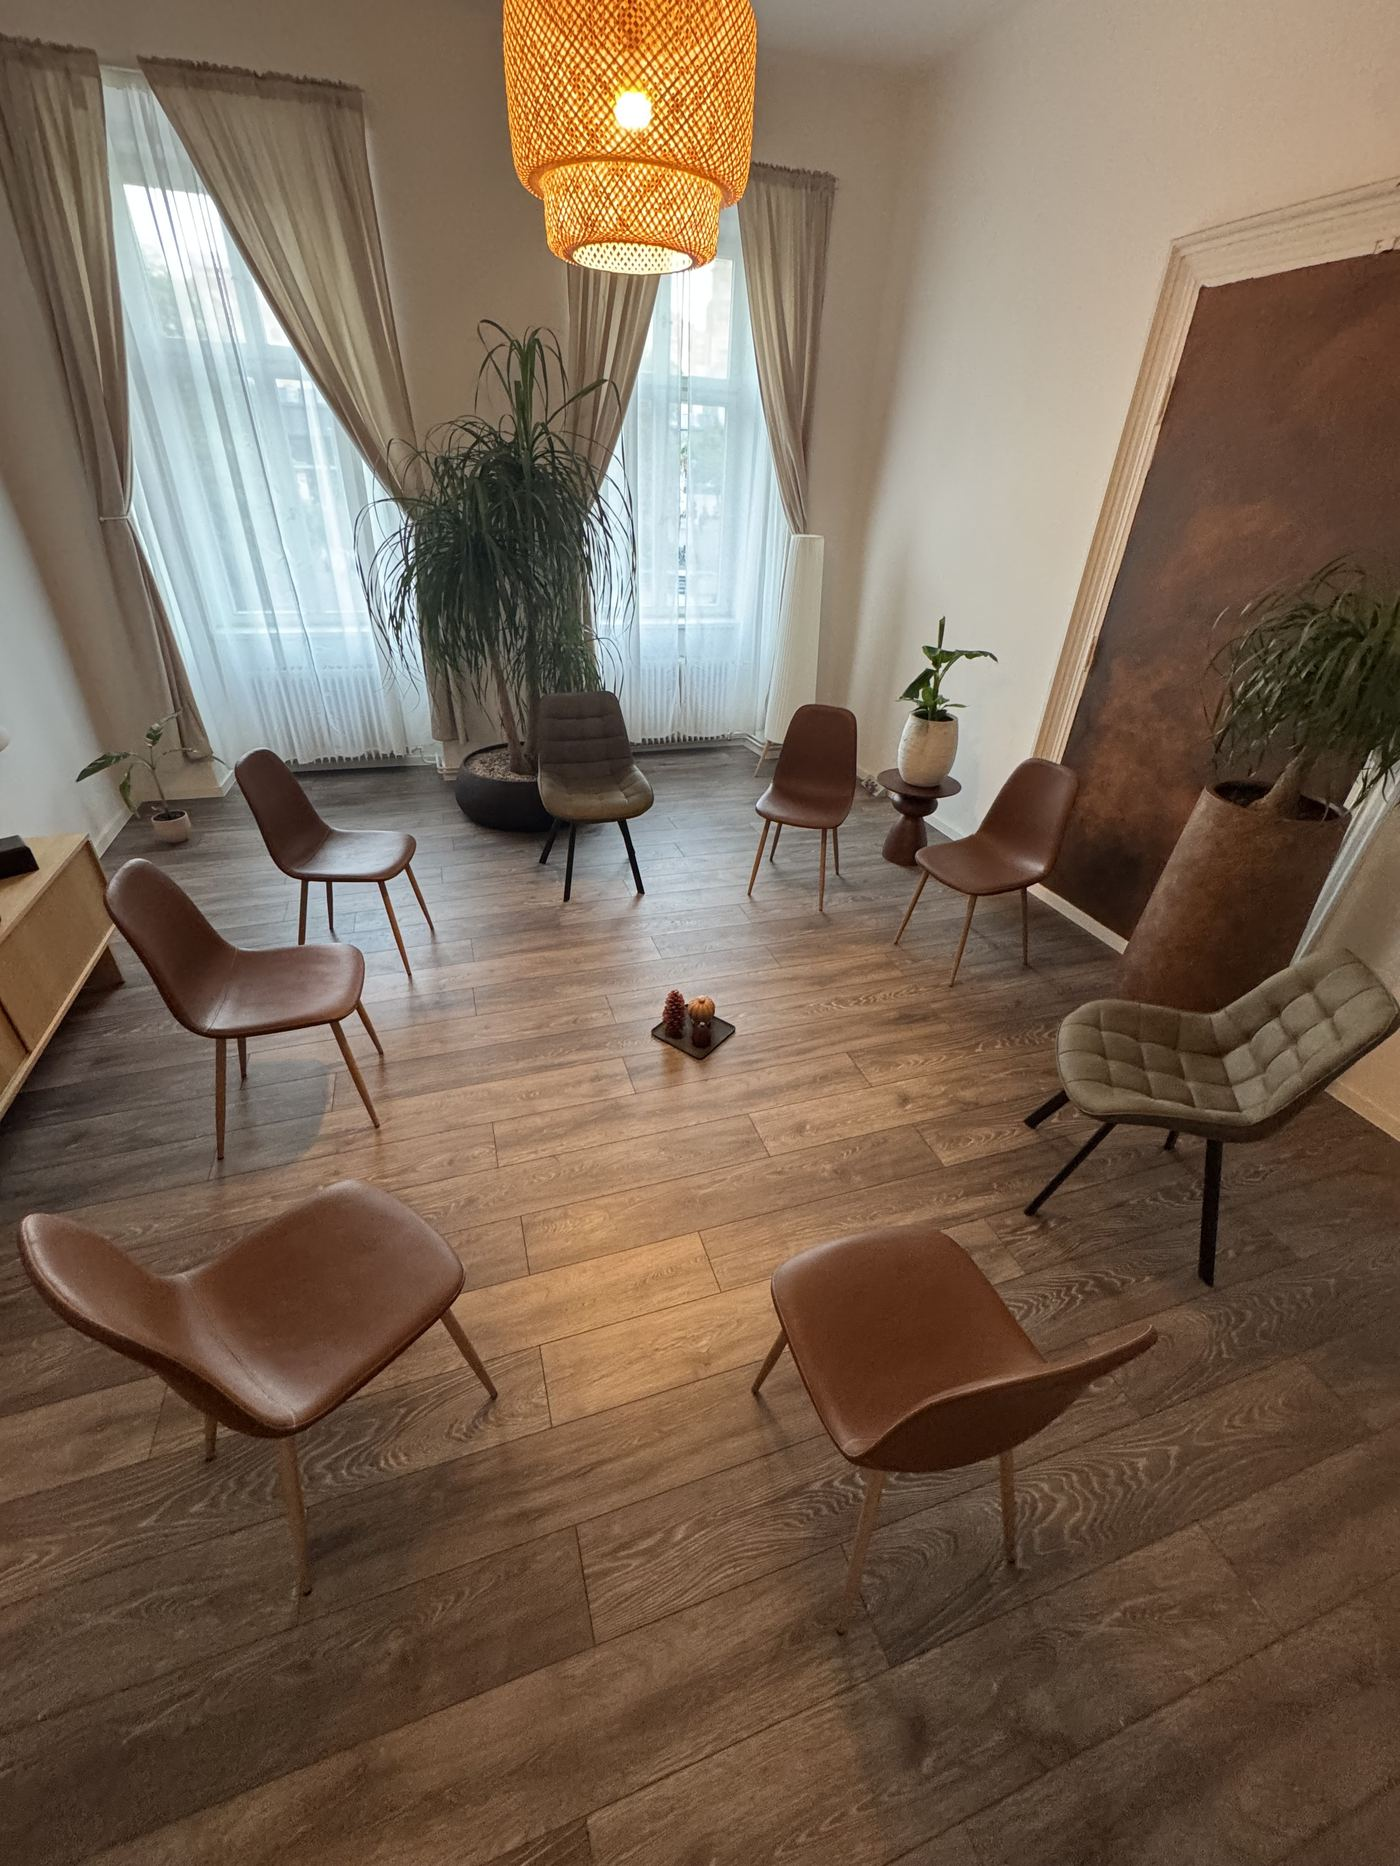
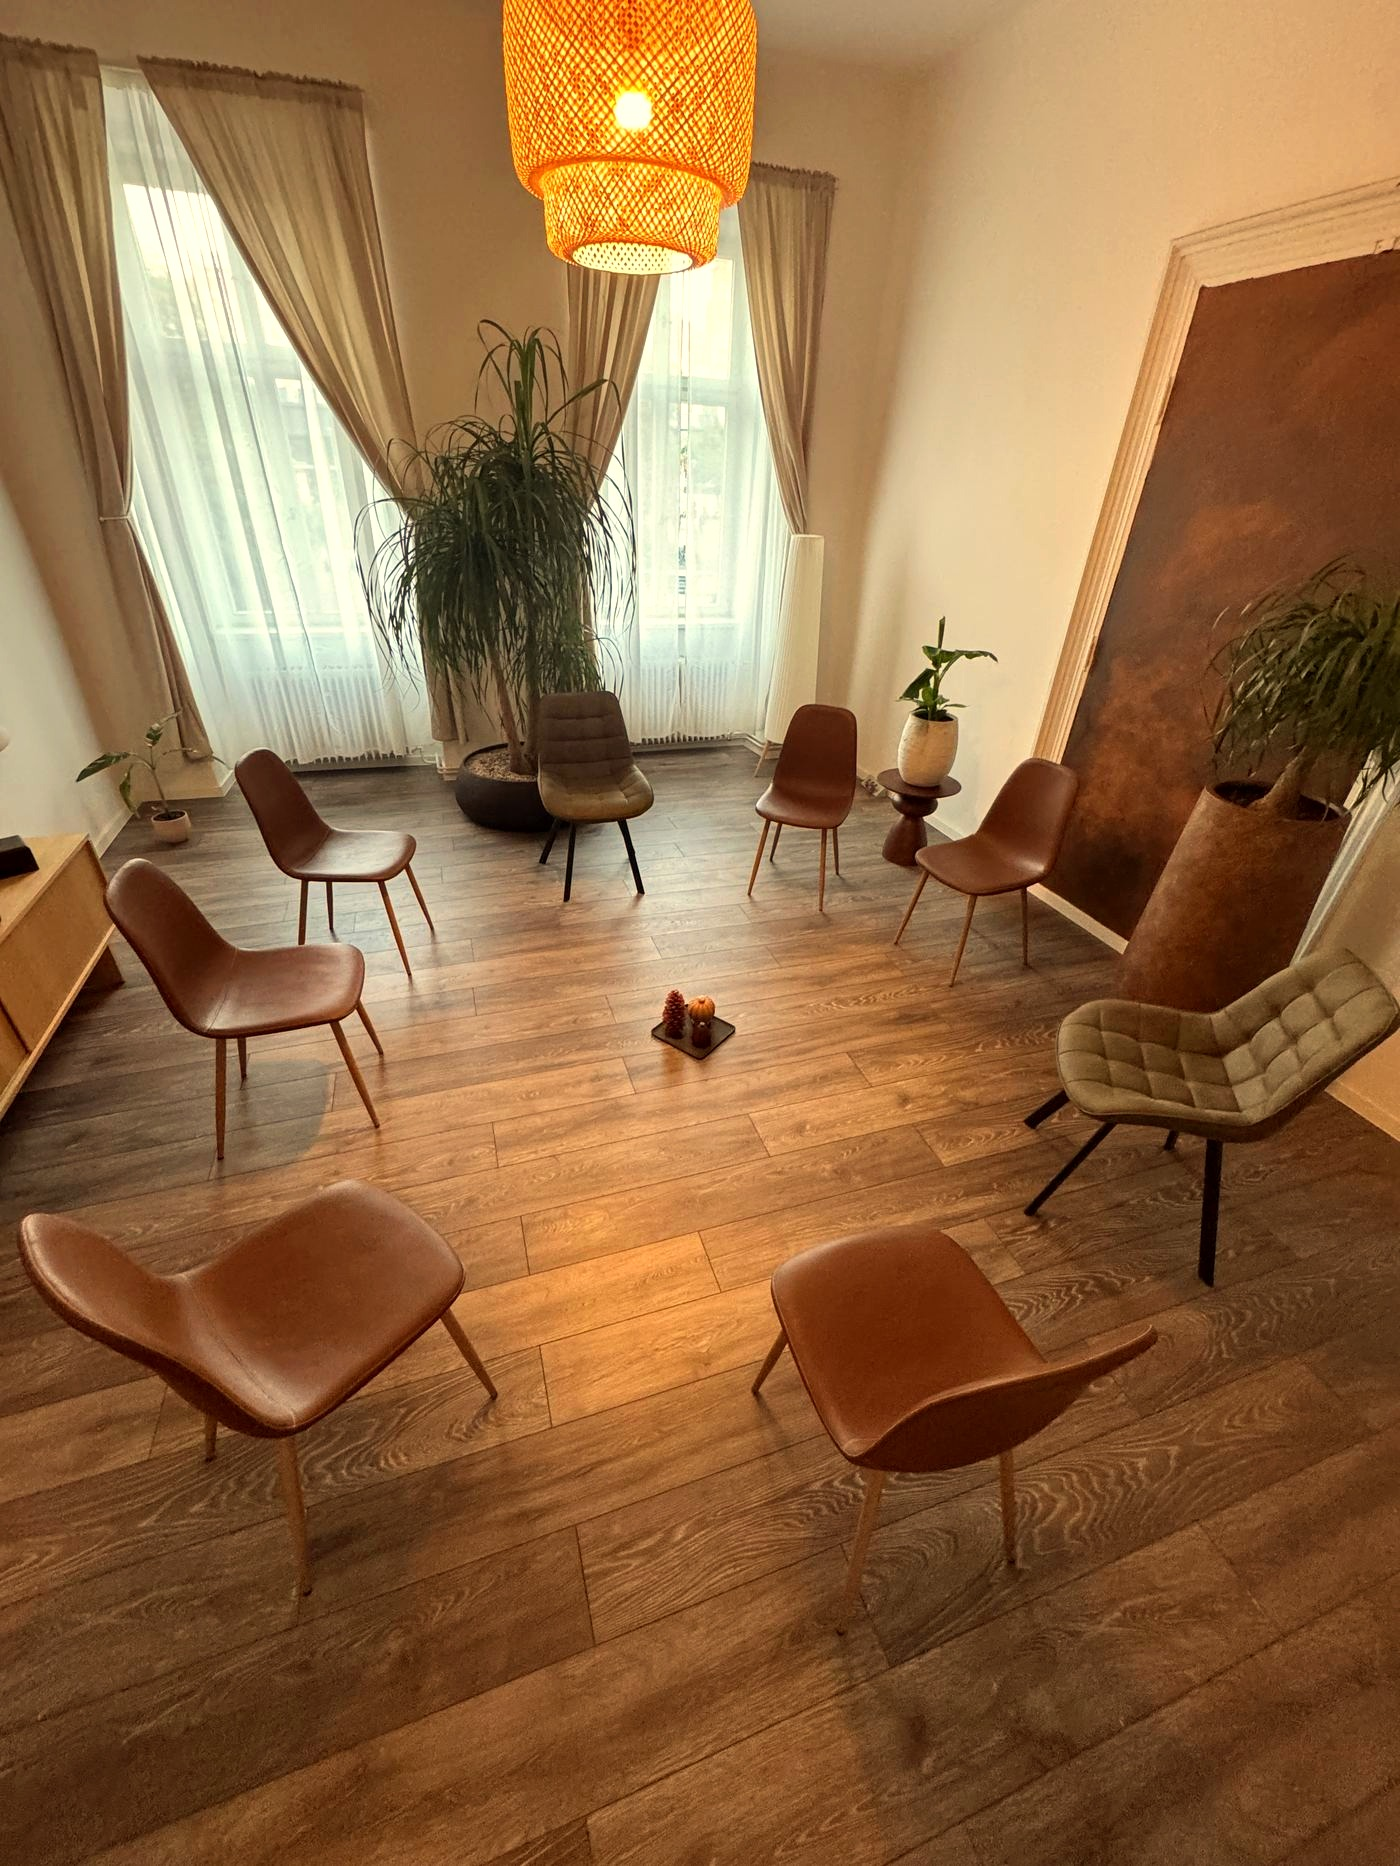
Оновлення сторінки «Ризикни бути живою»: фото-акценти в блоках, нові іконки замість емодзі, тепліше фото кімнати

diff --git a/ryzykny-buty-zhyvoyu.html b/ryzykny-buty-zhyvoyu.html
@@ -68,8 +68,8 @@
     <link rel="preconnect" href="https://fonts.gstatic.com" crossorigin />
     <link href="https://fonts.googleapis.com/css2?family=Manrope:wght@400;500;600;700;800&family=Playfair+Display:ital,wght@0,500;0,600;1,500;1,600&display=swap" rel="stylesheet" />
     <link rel="stylesheet" href="./styles.css?v=12" />
-    <link rel="stylesheet" href="./ryzykny.css?v=8" />
-    <link rel="preload" as="image" href="./public/kvitka/ryzykny-hero.jpg?v=3" fetchpriority="high" />
+    <link rel="stylesheet" href="./ryzykny.css?v=26" />
+    <link rel="preload" as="image" href="./public/kvitka/ryzykny-hero.jpg?v=4" fetchpriority="high" />
   </head>
   <body>
     <main class="app">
@@ -82,7 +82,7 @@
       </header>
 
       <article class="hero">
-        <img src="./public/kvitka/ryzykny-hero.jpg?v=3" alt="Наталія Квітка" fetchpriority="high" decoding="async" />
+        <img src="./public/kvitka/ryzykny-hero.jpg?v=4" alt="Наталія Квітка" fetchpriority="high" decoding="async" />
         <div class="hero-top">
           <strong>Терапевтична група · 17 зустрічей</strong>
           <span>ONLINE від 16.10 · OFFLINE Прага від 23.10</span>
@@ -102,6 +102,9 @@
           <span>✣ Впізнати себе</span>
           <h2>Це група про те, щоб ризикнути обрати себе.</h2>
         </div>
+        <figure class="ryz-mood-photo">
+          <img src="./public/kvitka/photo-doorway.jpg?v=1" alt="Жінка дивиться на світанок у відкриті двері" loading="lazy" decoding="async" />
+        </figure>
         <p class="change-intro">Не бути зручною. Не мовчати. Не підлаштовуватися.</p>
         <p class="change-intro">А бути живою — справжньою, чутливою і різною.</p>
       </article>
@@ -118,6 +121,9 @@
 
       <article class="panel">
         <div class="heading reveal"><span>✣ Чому саме група</span><h2>Чому групова терапія, а не тільки індивідуальна</h2></div>
+        <figure class="ryz-mood-photo">
+          <img src="./public/kvitka/photo-hands.jpg?v=1" alt="Жіночі руки разом на столі" loading="lazy" decoding="async" />
+        </figure>
         <div class="detail about-text-card">
           <p>Іноді ми можемо багато зрозуміти про себе наодинці. Але саме в контакті з іншими людьми стають помітними наші звичні способи: як ми наближаємося, як віддаляємося, як мовчимо, як підлаштовуємося, як захищаємося, як просимо, як боїмося бути побаченими.</p>
           <p>Група стає живим простором, де це можна помітити — і спробувати по-іншому.</p>
@@ -129,7 +135,7 @@
         <div class="stat-grid" id="ryz-stats"></div>
         <div class="change-list" id="ryz-format"></div>
         <figure class="ryz-room-photo">
-          <img src="./public/kvitka/ryzykny-room.jpg?v=1" alt="Простір, де проходить офлайн-зустріч групи" loading="lazy" decoding="async" />
+          <img src="./public/kvitka/ryzykny-room.jpg?v=2" alt="Простір, де проходить офлайн-зустріч групи" loading="lazy" decoding="async" />
           <figcaption>Так виглядає коло, в якому проходить офлайн&#8209;зустріч&nbsp;у&nbsp;Празі</figcaption>
         </figure>
       </article>
@@ -155,6 +161,9 @@
       </article>
 
       <article class="panel contact-mini">
+        <figure class="ryz-mood-photo">
+          <img src="./public/kvitka/photo-field.jpg?v=1" alt="Жінка йде крізь золоте поле на заході сонця" loading="lazy" decoding="async" />
+        </figure>
         <div class="heading reveal"><span>✣ Готова ризикнути?</span><h2>Пройди короткий тест і дізнайся, що може заважати тобі бути собою</h2></div>
         <button type="button" class="wide" id="open-quiz-3">Пройти тест (2 хв)</button>
         <div class="contact-legal">
@@ -175,6 +184,6 @@
       </div>
     </div>
 
-    <script src="./ryzykny.js?v=9"></script>
+    <script src="./ryzykny.js?v=16"></script>
   </body>
 </html>

diff --git a/ryzykny.js b/ryzykny.js
@@ -18,6 +18,7 @@ const GROUP = {
 const accordionTopics = [
   {
     title: "Ця група може бути про тебе, якщо ти...",
+    icon: "./public/kvitka/icon-wilting-woman.png?v=1",
     items: [
       "втомилася постійно бути сильною",
       "часто живеш через «треба», а не через «хочу»",
@@ -35,6 +36,7 @@ const accordionTopics = [
   },
   {
     title: "Що може змінитися",
+    icon: "./public/kvitka/icon-seed-pod.png?v=1",
     items: [
       "краще чути себе та свої потреби",
       "розуміти, що з тобою відбувається",
@@ -62,21 +64,21 @@ const pains = [
 ];
 
 const explore = [
-  "чого мені насправді хочеться",
-  "що допомагає і що заважає чути себе",
-  "свої почуття, потреби та бажання",
-  "страх змін і невизначеності",
-  "довіру до себе та інших",
-  "близькість і дистанцію у стосунках",
-  "страх відкидання та самотності",
-  "свої звичні способи захищатися й підтримувати себе"
+  { icon: "./public/kvitka/card-compass.png?v=1", text: "чого мені насправді хочеться" },
+  { icon: "./public/kvitka/card-scales.png?v=1", text: "що допомагає і що заважає чути себе" },
+  { icon: "./public/kvitka/card-heart-hand.png?v=1", text: "свої почуття, потреби та бажання" },
+  { icon: "./public/kvitka/card-cocoon.png?v=1", text: "страх змін і невизначеності" },
+  { icon: "./public/kvitka/card-hands.png?v=1", text: "довіру до себе та інших" },
+  { icon: "./public/kvitka/card-spheres.png?v=1", text: "близькість і дистанцію у стосунках" },
+  { icon: "./public/kvitka/card-dome.png?v=1", text: "страх відкидання та самотності" },
+  { icon: "./public/kvitka/card-shell.png?v=1", text: "свої звичні способи захищатися й підтримувати себе" }
 ];
 
 const groupStats = [
-  { icon: "🔒", title: "Закритий формат", caption: "постійний склад групи" },
-  { icon: "👥", title: "До 10 учасниць", caption: "камерний склад для довіри" },
-  { icon: "🗓", title: "Раз на 2 тижні", caption: "по п'ятницях" },
-  { icon: "🚪", title: "Перші 3 зустрічі", caption: "ще можна приєднатися" }
+  { icon: "./public/kvitka/stat-lock.png?v=2", title: "Закритий формат", caption: "постійний склад групи" },
+  { icon: "./public/kvitka/stat-group.png?v=2", title: "До 10 учасниць", caption: "камерний склад для довіри" },
+  { icon: "./public/kvitka/stat-calendar.png?v=2", title: "Раз на 2 тижні", caption: "по п'ятницях" },
+  { icon: "./public/kvitka/stat-door.png?v=2", title: "Перші 3 зустрічі", caption: "ще можна приєднатися" }
 ];
 
 const format = [
@@ -89,12 +91,14 @@ function renderList(id, items) {
 }
 
 function renderChips(id, items) {
-  document.querySelector(id).innerHTML = items.map((text) => `<span>${text}</span>`).join("");
+  document.querySelector(id).innerHTML = items
+    .map((item) => `<article><img src="${item.icon}" alt="" loading="lazy" /><p>${item.text}</p></article>`)
+    .join("");
 }
 
 function renderStats(id, items) {
   document.querySelector(id).innerHTML = items
-    .map((s) => `<article><span class="stat-icon">${s.icon}</span><strong>${s.title}</strong><span>${s.caption}</span></article>`)
+    .map((s) => `<article><img class="stat-icon" src="${s.icon}" alt="" loading="lazy" /><strong>${s.title}</strong><span>${s.caption}</span></article>`)
     .join("");
 }
 
@@ -102,6 +106,7 @@ function renderAccordion(id, topics) {
   document.querySelector(id).innerHTML = topics.map((topic, index) => `
     <div class="acc-item" data-acc="${index}">
       <button class="acc-head" data-acc-toggle="${index}">
+        ${topic.icon ? `<img class="acc-icon" src="${topic.icon}" alt="" loading="lazy" />` : ""}
         <span>${topic.title}</span>
         <b>+</b>
       </button>

diff --git a/ryzykny.css b/ryzykny.css
@@ -3,6 +3,44 @@
    Базові токени й компоненти (кольори, кнопки, картки) — у styles.css.
    ============================================================ */
 
+/* ---- іконка-мініатюра в заголовку акордеона ---- */
+#ryz-accordion .acc-head {
+  justify-content: flex-start;
+}
+
+#ryz-accordion .acc-head span {
+  flex: 1;
+}
+
+.acc-icon {
+  display: block;
+  flex: none;
+  width: 104px;
+  height: 104px;
+  object-fit: contain;
+}
+
+/* ---- фото настрою (впізнати себе / чому саме група / готова ризикнути) ---- */
+.ryz-mood-photo {
+  margin: 16px 0 18px;
+  border-radius: var(--radius-md);
+  overflow: hidden;
+  aspect-ratio: 3 / 4;
+  box-shadow: var(--shadow-card);
+}
+
+.ryz-mood-photo img {
+  display: block;
+  width: 100%;
+  height: 100%;
+  object-fit: cover;
+  object-position: center 22%;
+}
+
+.contact-mini .ryz-mood-photo {
+  margin-top: 0;
+}
+
 /* ---- ефект "стосу карток" — рахується в JS через transform, не через CSS sticky
    (нативний sticky в браузері ламається, коли забагато елементів ділять один контейнер) ---- */
 .ryz-stack {
@@ -98,20 +136,34 @@
   }
 }
 
-/* ---- компактні чипси (у групі досліджуємо) ---- */
+/* ---- картки з іконками (у групі досліджуємо) ---- */
 .ryz-chips {
   display: grid;
   grid-template-columns: 1fr 1fr;
-  gap: 8px;
+  gap: 10px;
 }
 
-.ryz-chips span {
-  display: block;
-  padding: 11px 12px;
+.ryz-chips article {
+  display: flex;
+  flex-direction: column;
+  align-items: center;
+  padding: 14px 12px 14px;
   border: 1px solid var(--line);
   border-radius: var(--radius-md);
   background: var(--white);
   box-shadow: var(--shadow-card);
+  text-align: center;
+}
+
+.ryz-chips img {
+  width: 104px;
+  height: 104px;
+  object-fit: contain;
+  margin-bottom: 4px;
+}
+
+.ryz-chips p {
+  margin: 0;
   color: var(--ink);
   font-size: 13.5px;
   line-height: 1.35;
@@ -132,23 +184,21 @@
 }
 
 .stat-grid article {
-  padding: 16px 14px;
+  display: flex;
+  flex-direction: column;
+  align-items: center;
+  padding: 14px 12px;
   border-radius: var(--radius-md);
   background: var(--white);
   box-shadow: var(--shadow-card);
-  text-align: left;
+  text-align: center;
 }
 
 .stat-grid .stat-icon {
-  display: inline-flex;
-  align-items: center;
-  justify-content: center;
-  width: 34px;
-  height: 34px;
-  margin-bottom: 8px;
-  border-radius: 50%;
-  background: var(--sage-tint);
-  font-size: 16px;
+  width: 104px;
+  height: 104px;
+  object-fit: contain;
+  margin-bottom: 4px;
 }
 
 .stat-grid strong {

diff --git a/index.html b/index.html
@@ -183,7 +183,7 @@
         <article class="panel">
           <div class="heading reveal"><span>✣ Відкритий набір</span><h2>Ризикни бути живою</h2></div>
           <a class="ryzykny-promo" href="./ryzykny-buty-zhyvoyu.html">
-            <img src="./public/kvitka/ryzykny-hero.jpg?v=3" alt="" loading="lazy" decoding="async" />
+            <img src="./public/kvitka/ryzykny-hero.jpg?v=4" alt="" loading="lazy" decoding="async" />
             <span class="ryzykny-promo-badge">Відкритий набір</span>
             <div class="ryzykny-promo-text">
               <small>Терапевтична група</small>
@@ -288,7 +288,7 @@
     <div class="ryzykny-popup-overlay" id="ryzykny-popup" hidden>
       <div class="ryzykny-popup-card">
         <button type="button" class="ryzykny-popup-close" id="ryzykny-popup-close" aria-label="Закрити">×</button>
-        <img src="./public/kvitka/ryzykny-hero.jpg?v=3" alt="" loading="lazy" decoding="async" />
+        <img src="./public/kvitka/ryzykny-hero.jpg?v=4" alt="" loading="lazy" decoding="async" />
         <div class="ryzykny-popup-body">
           <span class="ryzykny-popup-eyebrow">Відкритий набір · ONLINE від 16.10 · Прага від 23.10</span>
           <strong>Зовні все добре.<br />А всередині — порожньо?</strong>
